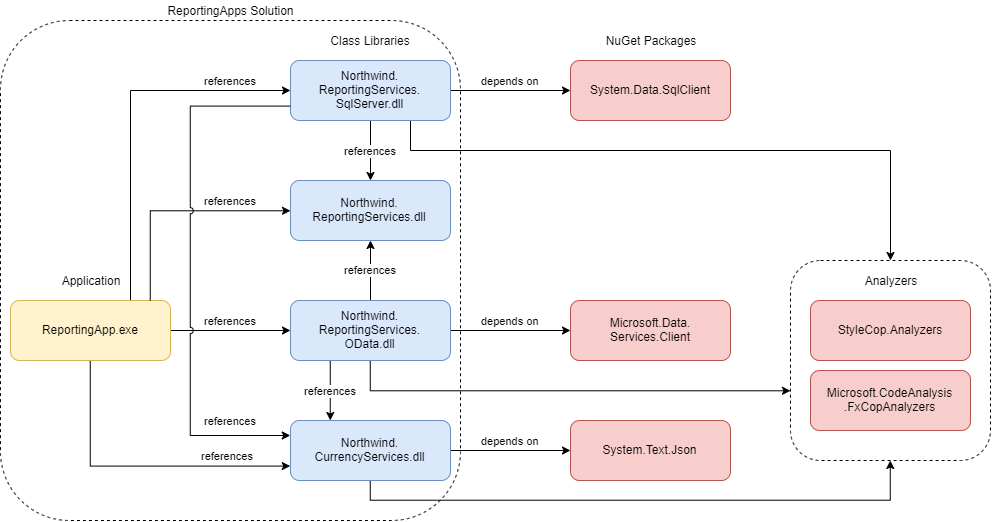
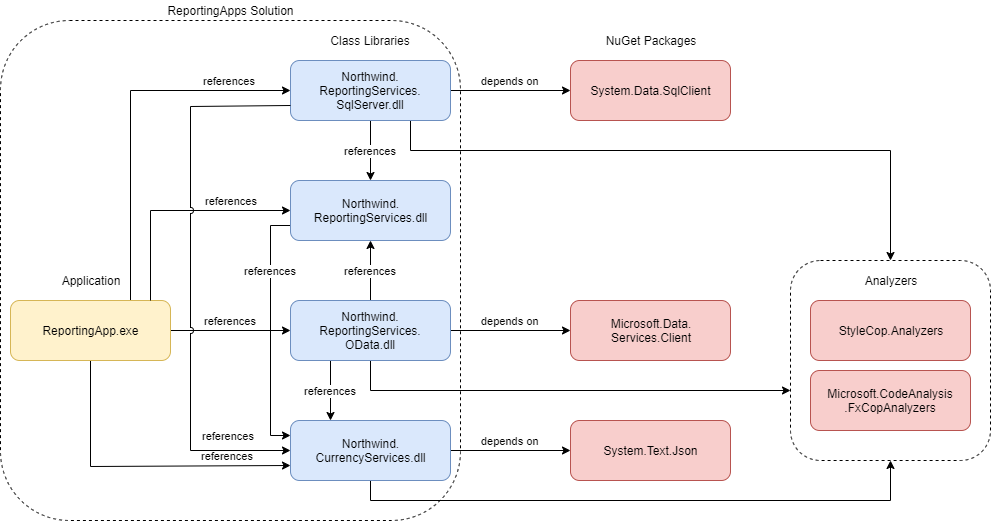
Changes in module03 and module04.

diff --git a/module04/NorthwindWebApps/Northwind.Services/Products/ProductManagementService.cs b/module04/NorthwindWebApps/Northwind.Services/Products/ProductManagementService.cs
@@ -1,0 +1,108 @@
+using System;
+using System.Collections.Generic;
+using System.IO;
+
+namespace Northwind.Services.Products
+{
+    /// <summary>
+    /// Represents a stub for a product management service.
+    /// </summary>
+    public sealed class ProductManagementService : IProductManagementService
+    {
+        /// <inheritdoc/>
+        public int CreateCategory(ProductCategory productCategory)
+        {
+            throw new NotImplementedException();
+        }
+
+        /// <inheritdoc/>
+        public int CreateProduct(Product product)
+        {
+            throw new NotImplementedException();
+        }
+
+        /// <inheritdoc/>
+        public bool DestroyCategory(int categoryId)
+        {
+            throw new NotImplementedException();
+        }
+
+        /// <inheritdoc/>
+        public bool DestroyPicture(int categoryId)
+        {
+            throw new NotImplementedException();
+        }
+
+        /// <inheritdoc/>
+        public bool DestroyProduct(int productId)
+        {
+            throw new NotImplementedException();
+        }
+
+        /// <inheritdoc/>
+        public IList<ProductCategory> LookupCategoriesByName(IList<string> names)
+        {
+            throw new NotImplementedException();
+        }
+
+        /// <inheritdoc/>
+        public IList<Product> LookupProductsByName(IList<string> names)
+        {
+            throw new NotImplementedException();
+        }
+
+        /// <inheritdoc/>
+        public IList<ProductCategory> ShowCategories(int offset, int limit)
+        {
+            throw new NotImplementedException();
+        }
+
+        /// <inheritdoc/>
+        public IList<Product> ShowProducts(int offset, int limit)
+        {
+            throw new NotImplementedException();
+        }
+
+        /// <inheritdoc/>
+        public IList<Product> ShowProductsForCategory(int categoryId)
+        {
+            throw new NotImplementedException();
+        }
+
+        /// <inheritdoc/>
+        public bool TryShowCategory(int categoryId, out ProductCategory productCategory)
+        {
+            throw new NotImplementedException();
+        }
+
+        /// <inheritdoc/>
+        public bool TryShowPicture(int categoryId, out byte[] bytes)
+        {
+            throw new NotImplementedException();
+        }
+
+        /// <inheritdoc/>
+        public bool TryShowProduct(int productId, out Product product)
+        {
+            throw new NotImplementedException();
+        }
+
+        /// <inheritdoc/>
+        public bool UpdateCategories(int categoryId, ProductCategory productCategory)
+        {
+            throw new NotImplementedException();
+        }
+
+        /// <inheritdoc/>
+        public bool UpdatePicture(int categoryId, Stream stream)
+        {
+            throw new NotImplementedException();
+        }
+
+        /// <inheritdoc/>
+        public bool UpdateProduct(int productId, Product product)
+        {
+            throw new NotImplementedException();
+        }
+    }
+}

diff --git a/module04/readme.md b/module04/readme.md
@@ -22,13 +22,48 @@
 
 #### Выполнение
 
-1. Создайте solution _NorthwindWebApps_, приложение Web API _NorthwindApiApp_ и библиотеку _Northwind.Services_.
+1. Создайте решение _NorthwindWebApps_:
 
 ![NorthwindWebApps: Services](northwindwebapps-services.png)
 
+2. В проект _Northwind.Services_ добавьте файлы:
 
+* [Products\Product.cs](NorthwindWebApps\Northwind.Services\Products\Product.cs)
+* [Products\ProductCategory.cs](\NorthwindWebApps\Northwind.Services\Products\ProductCategory.cs)
+* [Products\IProductManagementService.cs](\NorthwindWebApps\Northwind.Services\Products\IProductManagementService.cs)
+* [Products\ProductManagementService.cs](\NorthwindWebApps\Northwind.Services\Products\ProductManagementService.cs)
+
+3. Зарегистрируйте сервис _ProductManagementService_ в _Startup.ConfigureServices_. См. [App startup in ASP.NET Core](https://docs.microsoft.com/en-us/aspnet/core/fundamentals/startup).
+4. Добавьте новый контроллер _ProductCategoriesController_. Используйте _Constructor Injection_ для того, чтобы внедрить в контроллер зависимость на сервис _IProductManagementService_. См. [Dependency injection in ASP.NET Core](https://docs.microsoft.com/en-us/aspnet/core/fundamentals/dependency-injection).
+5. Заполните пустые колонки в таблице API методов для категорий.
+
+| Operation        | HTTP Verb | URI                  | Request body | Response body |
+| ---------------- | --------- | -------------------- | ------------ |  ------------ |
+| Create           |           | /api/categories      |              |               |
+| Read (all items) |           | /api/categories      |              |               |
+| Read (item)      |           | /api/categories/{id} |              |               |
+| Update           |           | /api/categories/{id} |              |               |
+| Delete           |           | /api/categories/{id} |              |               |
+
+6. Реализуйте все методы для _ProductCategoriesController_.
+7. Добавьте новый контроллер _ProductCategoriesController_. Используйте _Constructor Injection_ для того, чтобы внедрить в контроллер зависимость на сервис _IProductManagementService_.
+8. Заполните пустые колонки в таблице API методов для товаров.
+
+| Operation        | HTTP Verb | URI                  | Request body | Response body |
+| ---------------- | --------- | -------------------- | ------------ | ------------- |
+| Create           |           |                      |              |               |
+| Read (all items) |           |                      |              |               |
+| Read (item)      |           |                      |              |               |
+| Update           |           |                      |              |               |
+| Delete           |           |                      |              |               |
+
+Добавьте новый контроллер _ProductCategoriesController_ и реализуйте все actions из таблицы.
+
+3. ProductManagementService.cs
 
 ![NorthwindWebApps: EntityFramework Core](northwind-webapi-entityframeworkcore.png)
+
+
 
 ### Задание 2. LocalDB
 

diff --git a/module03/readme.md b/module03/readme.md
@@ -472,11 +472,17 @@ $ type nul > Northwind.ReportingServices\ProductReports\IProductReportService.cs
 
 [Извлеките методы класса](https://refactoring.guru/ru/extract-interface) _ProductReportService_ в интерфейс _IProductReportService_. Реализуйте интерфейс в классе сервиса. Переместите зависимые классы в сборку _Northwind.ReportingService_.
 
-7. Проанализируйте зависимости:
+7. Добавьте в _Northwind.ReportingServices_ зависимость на сборку _Northwind.CurrencyServices_, чтобы пользоваться интерфейсами _ICurrencyExchangeService_ и _ICountryCurrencyService_:
+
+```sh
+$ dotnet add Northwind.ReportingServices\Northwind.ReportingServices.csproj reference Northwind.CurrencyServices\Northwind.CurrencyServices.csproj
+```
+
+8. Проанализируйте зависимости:
 
 ![Extract Interface from ProductReportService](productreportservice-extract-interface.png)
 
-8. Добавьте в _ReportingApp_ новый класс _CurrentProductLocalPriceReport_, который отвечает за печать отчета.
+9. Добавьте в _ReportingApp_ новый класс _CurrentProductLocalPriceReport_, который отвечает за печать отчета.
 
 ```sh
 type nul > ReportingApp\CurrentProductLocalPriceReport.cs
@@ -505,11 +511,11 @@ class CurrentProductLocalPriceReport
 }
 ```
 
-9. Проанализируйте зависимости:
+10. Проанализируйте зависимости:
 
 ![CurrentProductLocalPriceReport](currentproductlocalpricereport.png)
 
-10. Какие зависимости имеет класс _CurrentProductLocalPriceReport_?
+11. Какие зависимости имеет класс _CurrentProductLocalPriceReport_?
 
 Прочтите про _Composition Root_:
 * [Understanding the Composition Root](https://freecontent.manning.com/dependency-injection-in-net-2nd-edition-understanding-the-composition-root/)

diff --git a/module04/use-localdb.md b/module04/use-localdb.md
@@ -1,0 +1,5 @@
+# Northwind Applications
+
+## Работа с базой данных Northwind
+
+### MS SQL LocalDB
